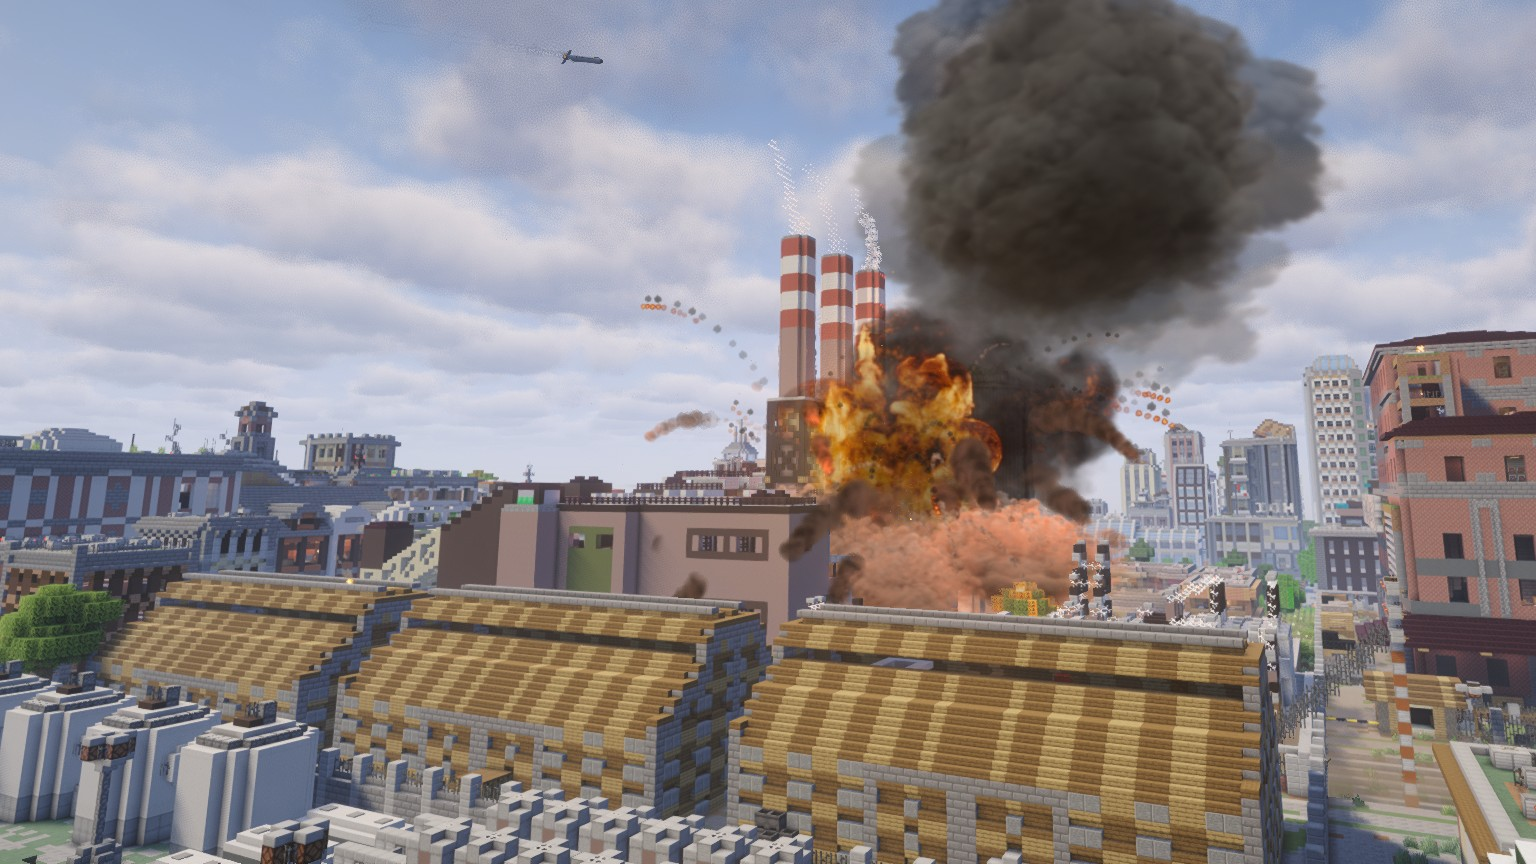
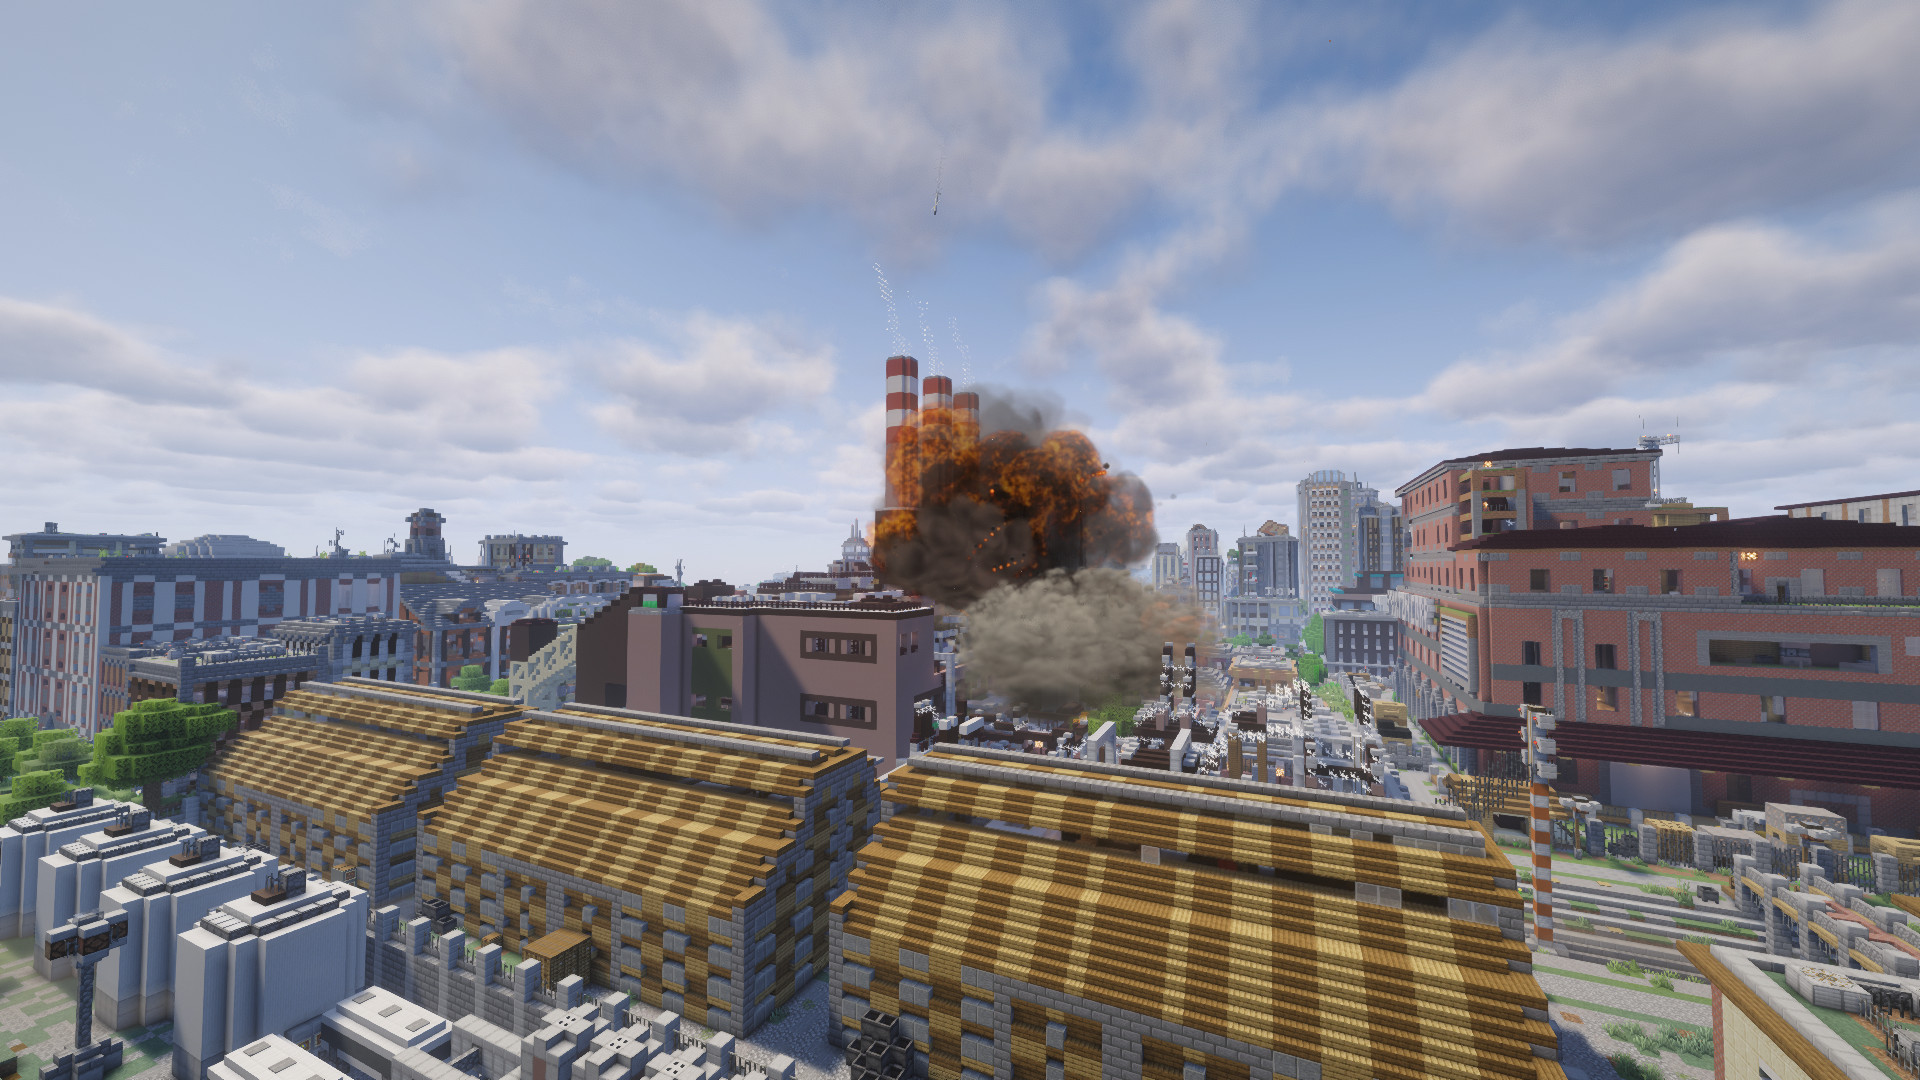
Reshoot airport, factory and night strike media on fresh Zearth
Use vanilla F2 stills and native Flashback video exports. Keep the LSS map seam diagnosis separate from the clean before-strike map; a full nuclear overview remains pending.

diff --git a/docs/store/listing.md b/docs/store/listing.md
@@ -69,8 +69,8 @@ upload list records the terrain/recipe/craft integrations above.
 
 The Modrinth icon is `docs/media/icon.png` (512×512); the CurseForge avatar is `docs/media/icon-400.png` (400×400 PNG).
 The first screen uses the factory-strike animation (`docs/media/hero.webp`), a tagline and a three-sentence introduction.
-The effect and nuclear sections lead, followed by weapons and controls. A factory impact, a nuclear blast wave and a ruined city illustrate the effects.
-The factory loop is 7 seconds and about 2.3 MiB; each refreshed animation is below 5 MB. Extra weapon screenshots are in the Gallery.
+The effect and nuclear sections lead, followed by weapons and controls. A factory impact and a 5 kt night airburst illustrate the effects.
+The factory loop is 8.5 seconds and about 3.3 MiB; each refreshed animation is below 5 MB. Extra weapon screenshots are in the Gallery.
 There is no verified finished video URL, so the description has no video section or video placeholder.
 
 The draft Modrinth gallery is in `modrinth.json`, in this order:
@@ -78,8 +78,8 @@ The draft Modrinth gallery is in `modrinth.json`, in this order:
 | File | Caption |
 |---|---|
 | `docs/media/still-5.jpg` | Cruise missiles strike a factory (featured) |
-| `docs/guide/img/nuke-wave.jpg` | Fireball and blast wave of a 15 kt airburst |
-| `docs/guide/img/nuke-ruins.jpg` | Ruined city in the dust after a 15 kt airburst |
+| `docs/guide/img/nuke-wave.jpg` | Blast-wave dust approaches after a 5 kt airburst at night |
+| `docs/guide/img/nuke-cloud.jpg` | The rising cloud after a 5 kt airburst at night |
 | `docs/guide/img/sam.webp` | SAM defending against a drone raid |
 | `docs/guide/img/weapon-shahed.jpg` | Shahed-136 on the way to its target |
 | `docs/media/still-2.jpg` | Cruise missiles strike a factory in Project Zearth |
@@ -87,12 +87,13 @@ The draft Modrinth gallery is in `modrinth.json`, in this order:
 | `docs/guide/img/weapon-grad.jpg` | Grad ready for a rocket salvo |
 | `docs/guide/img/weapon-b2.jpg` | B-2 in flight |
 | `docs/guide/img/weapon-icbm.jpg` | ICBM in flight |
-| `docs/guide/img/launcher.webp` | A cruise missile on a fixed launcher |
+| `docs/guide/img/launcher.webp` | Cruise missiles launch from an airport runway |
 | `docs/guide/img/remote.gif` | Choose a weapon and set up a salvo |
-| `docs/guide/img/map.png` | Targeting map along the coast |
+| `docs/guide/img/map.png` | Targeting map of the city before the strike |
 
 The factory, nuclear and instructional effect captures were recorded with Incoming 3.10.0 on a copy of Project
-Zearth. Motion clips use Flashback exports at 30 fps; the targeting map is a plain F2 screenshot.
+Zearth. Motion clips use Flashback exports at 30 fps; stills are plain F2 screenshots at 1920×1080 with Complementary Unbound.
+World shots hide the HUD; guide interface shots retain it. The map shows the city before the strike.
 Unchanged console, binocular, recipe and model images are retained. Verify animated WebP in the CurseForge editor before publication; if unsupported, the media thread should supply
 a GIF for the strike feature image. Preview gallery animations separately. Check both language sections, image
 loading, tables and links in the actual Markdown editor; a local Markdown check cannot certify its preview.

diff --git a/docs/dev/nuclear-effects-reference.md b/docs/dev/nuclear-effects-reference.md
@@ -4,7 +4,7 @@ Detailed presentation, timing and damage reference moved from the player guide.
 Distances assume full nuclear radii. Player instructions: [nuclear strike](../guide/nuke.md).
 
 
-![Blast-wave dust and flying debris over Project Zearth](../guide/img/nuke.jpg)
+![Flash of a 5 kt airburst over Project Zearth at night](../guide/img/nuke.jpg)
 
 Everyone within 20 km of the target hears a siren in advance. Then come the flash, the fireball and the mushroom cloud.
 The view is exposed the way a camera filming the burst would be. At the flash it turns white; within a quarter of a
@@ -96,7 +96,7 @@ minute or so and wanders across them. From about the sixth minute the fires die 
 are out, together with the smoke. A server with nuclear fires turned off (`nuclear.fires`) has no firestorm and no smoke
 haze over the town. Ash and scraps of burnt paper fall around you.
 
-![Fireball and blast wave over a town](../guide/img/nuke-wave.jpg)
+![Blast-wave dust approaches after a 5 kt airburst at night](../guide/img/nuke-wave.jpg)
 
 ### Damage and distant terrain reference
 
@@ -112,7 +112,7 @@ About 80 seconds after the burst, black rain starts to fall from the smoke of th
 town and in a wide strip downwind, for about six minutes in each place, in step with the firestorm. After an air burst
 it is only weakly radioactive. In the fallout trail of a ground burst it brings the fallout down onto you.
 
-![Ruined city beneath the dust pall after a 15 kt airburst](../guide/img/nuke-ruins.jpg)
+![The rising cloud after a 5 kt airburst at night](../guide/img/nuke-cloud.jpg)
 
 The land around the burst is scorched. The light does its part within the flash itself, about a second at 15 kt, before
 the blast wave comes: it burns grass, flowers and crops in patches, leaves black char where it was strongest, melts

diff --git a/docs/guide/ru/nuke.md b/docs/guide/ru/nuke.md
@@ -68,7 +68,7 @@
 
 ## Что будет
 
-![Пыль ударной волны и летящие обломки над Project Zearth](../img/nuke.jpg)
+![Вспышка воздушного взрыва 5 кт над Project Zearth ночью](../img/nuke.jpg)
 
 Сирена заранее предупреждает игроков возле цели. Сначала вспышка, затем огненный шар поднимается и становится грибом.
 Волна проходит по земле, ломает здания и поднимает пыль. Звук приходит к тебе вместе с волной.
@@ -77,7 +77,7 @@
 Наземный взрыв оставляет воронку и радиоактивный след по ветру. Над водой вместо стены пыли поднимаются брызги.
 После вспышки всё ещё опасны ожоги, радиация и падающие обломки: оставайся в укрытии и следи за дозой.
 
-![Разрушенный город под пылевой пеленой после воздушного взрыва 15 кт](../img/nuke-ruins.jpg)
+![Растущее облако после воздушного взрыва 5 кт ночью](../img/nuke-cloud.jpg)
 
 Distant Horizons и Voxy показывают разрушения, даже если ты не подходил к ним. Для МБР самая разрушенная область
 готовится ещё во время полёта; после других ядерных носителей дальний вид может обновиться позже. Выбитые окна и

diff --git a/docs/store/curseforge.ru.md b/docs/store/curseforge.ru.md
@@ -19,9 +19,9 @@ Incoming добавляет удары с воздуха со взрывами, 
 Вспышка, ударная волна, гриб, пожары и руины. Наземный взрыв оставляет воронку и радиоактивный след по ветру.
 Запускай МБР или ставь ядерную боеголовку на крылатую ракету либо бомбу B-2. По умолчанию доступны только операторам.
 
-![Огненный шар и ударная волна воздушного взрыва 15 кт над Project Zearth](https://raw.githubusercontent.com/zentixua/incoming/main/docs/guide/img/nuke-wave.jpg)
+![Воздушный взрыв 5 кт ночью над Project Zearth: вспышка, растущее облако и ударная волна](https://raw.githubusercontent.com/zentixua/incoming/main/docs/media/nuke.webp)
 
-![Руины города в пыли после воздушного взрыва 15 кт](https://raw.githubusercontent.com/zentixua/incoming/main/docs/guide/img/nuke-ruins.jpg)
+![Растущее облако после воздушного взрыва 5 кт ночью](https://raw.githubusercontent.com/zentixua/incoming/main/docs/guide/img/nuke-cloud.jpg)
 
 ### Оружие
 

diff --git a/docs/store/description.ru.md b/docs/store/description.ru.md
@@ -19,9 +19,9 @@ Incoming добавляет удары с воздуха со взрывами, 
 Вспышка, ударная волна, гриб, пожары и руины. Наземный взрыв оставляет воронку и радиоактивный след по ветру.
 Запускай МБР или ставь ядерную боеголовку на крылатую ракету либо бомбу B-2. По умолчанию доступны только операторам.
 
-![Огненный шар и ударная волна воздушного взрыва 15 кт над Project Zearth](https://raw.githubusercontent.com/zentixua/incoming/main/docs/guide/img/nuke-wave.jpg)
+![Воздушный взрыв 5 кт ночью над Project Zearth: вспышка, растущее облако и ударная волна](https://raw.githubusercontent.com/zentixua/incoming/main/docs/media/nuke.webp)
 
-![Руины города в пыли после воздушного взрыва 15 кт](https://raw.githubusercontent.com/zentixua/incoming/main/docs/guide/img/nuke-ruins.jpg)
+![Растущее облако после воздушного взрыва 5 кт ночью](https://raw.githubusercontent.com/zentixua/incoming/main/docs/guide/img/nuke-cloud.jpg)
 
 ### Оружие
 

diff --git a/docs/guide/nuke.md b/docs/guide/nuke.md
@@ -73,7 +73,7 @@ A Geiger Counter in hand clicks and shows your dose. Operators give it out.
 
 ## What happens
 
-![Blast-wave dust and flying debris over Project Zearth](img/nuke.jpg)
+![Flash of a 5 kt airburst over Project Zearth at night](img/nuke.jpg)
 
 The siren warns players near the target. The flash comes first; the fireball rises into a mushroom cloud.
 Then the wave reaches the ground around it, breaking buildings and throwing up dust. The sound reaches you with the wave.
@@ -82,7 +82,7 @@ Fires and thick dust can make the area hard to see through long after the strike
 A ground burst leaves a crater and radioactive fallout downwind. Over water, spray takes the place of the dust wall.
 Burns, radiation and falling debris can still hurt you after the flash, so stay under cover and watch your dose.
 
-![Ruined city beneath the dust pall after a 15 kt airburst](img/nuke-ruins.jpg)
+![The rising cloud after a 5 kt airburst at night](img/nuke-cloud.jpg)
 
 Distant Horizons and Voxy can show ruins without you visiting them. ICBM strikes prepare the hardest-hit area during
 flight; other nuclear carriers can take longer to update the distant view. Broken windows and fallen trees farther

diff --git a/docs/guide/ru/camera.md b/docs/guide/ru/camera.md
@@ -9,7 +9,7 @@
 Подписи камеры и радара зависят от языка игры: «ЗАП» — индикатор камеры, «С» — север, «Т-» — время до попадания.
 Индикатор камеры не сохраняет видео в файл.
 
-![Крылатая ракета подлетает к заводу на побережье и пикирует](../img/camera.webp)
+![Крылатая ракета в полёте над Project Zearth](../img/camera.webp)
 
 - Если снаряд дальше твоей прорисовки, вместо видео карта с его путём. Подлетит ближе — видео включится само.
 - **ЛКМ** — новая цель: то, что в перекрестии.
@@ -25,4 +25,4 @@
 
 ![Камера «Ланцета» на круге: данные полёта и время до попадания](../img/loiter-ui.png)
 
-![«Ланцет» делает круг над заводом и пикирует](../img/loiter.webp)
+![«Ланцет» делает круг над заводом](../img/loiter.webp)

diff --git a/README.ru.md b/README.ru.md
@@ -21,9 +21,9 @@ Incoming добавляет удары с воздуха со взрывами, 
 Вспышка, ударная волна, гриб, пожары и руины. Наземный взрыв оставляет воронку и радиоактивный след по ветру.
 Запускай МБР или ставь ядерную боеголовку на крылатую ракету либо бомбу B-2. По умолчанию доступны только операторам.
 
-![Огненный шар и ударная волна воздушного взрыва 15 кт над Project Zearth](docs/guide/img/nuke-wave.jpg)
+![Воздушный взрыв 5 кт ночью над Project Zearth: вспышка, растущее облако и ударная волна](docs/media/nuke.webp)
 
-![Руины города в пыли после воздушного взрыва 15 кт](docs/guide/img/nuke-ruins.jpg)
+![Растущее облако после воздушного взрыва 5 кт ночью](docs/guide/img/nuke-cloud.jpg)
 
 ### Оружие
 

diff --git a/docs/guide/ru/defense.md b/docs/guide/ru/defense.md
@@ -53,7 +53,7 @@
 Сам блок — кабина радара. Над ней стоят четыре контейнера с ракетами, так что весь ЗРК высотой около пяти с половиной
 блоков. Ракета выходит из контейнера вертикально вверх и короткой дугой разворачивается на цель.
 
-![ЗРК сбивает шахеды на подлёте; в углу экран радара](../img/sam.webp)
+![ЗРК запускает зенитные ракеты с городской площади](../img/sam.webp)
 
 - Радар видит до 3 км, огонь — с 1,5 км, по одной ракете на цель. Это игровые дальности, намного меньше настоящих,
   чтобы бой шёл на виду (не по физике). Малозаметные цели он видит ближе: крылатую ракету — с 2,1 км, «Ланцет» —

diff --git a/docs/store/curseforge.md b/docs/store/curseforge.md
@@ -19,9 +19,9 @@ It includes six weapons, air defense and sirens, with a designator for choosing 
 Flash, blast wave, mushroom cloud, fires and ruins. Ground bursts leave a crater and fallout downwind.
 Launch an ICBM or fit a nuclear warhead to a cruise missile or B-2 bomb. Operator-only by default.
 
-![Fireball and blast wave of a 15 kt airburst over Project Zearth](https://raw.githubusercontent.com/zentixua/incoming/main/docs/guide/img/nuke-wave.jpg)
+![A 5 kt airburst at night over Project Zearth: flash, rising cloud and blast wave](https://raw.githubusercontent.com/zentixua/incoming/main/docs/media/nuke.webp)
 
-![Ruined city in the dust after a 15 kt airburst](https://raw.githubusercontent.com/zentixua/incoming/main/docs/guide/img/nuke-ruins.jpg)
+![The rising cloud after a 5 kt airburst at night](https://raw.githubusercontent.com/zentixua/incoming/main/docs/guide/img/nuke-cloud.jpg)
 
 ### Weapons
 

diff --git a/docs/store/description.md b/docs/store/description.md
@@ -19,9 +19,9 @@ It includes six weapons, air defense and sirens, with a designator for choosing 
 Flash, blast wave, mushroom cloud, fires and ruins. Ground bursts leave a crater and fallout downwind.
 Launch an ICBM or fit a nuclear warhead to a cruise missile or B-2 bomb. Operator-only by default.
 
-![Fireball and blast wave of a 15 kt airburst over Project Zearth](https://raw.githubusercontent.com/zentixua/incoming/main/docs/guide/img/nuke-wave.jpg)
+![A 5 kt airburst at night over Project Zearth: flash, rising cloud and blast wave](https://raw.githubusercontent.com/zentixua/incoming/main/docs/media/nuke.webp)
 
-![Ruined city in the dust after a 15 kt airburst](https://raw.githubusercontent.com/zentixua/incoming/main/docs/guide/img/nuke-ruins.jpg)
+![The rising cloud after a 5 kt airburst at night](https://raw.githubusercontent.com/zentixua/incoming/main/docs/guide/img/nuke-cloud.jpg)
 
 ### Weapons
 

diff --git a/docs/guide/camera.md b/docs/guide/camera.md
@@ -10,7 +10,7 @@ character.
 The camera and radar captions follow your game language: `REC` marks the camera display, `N` marks north, and
 `T-` is the countdown to impact. The camera indicator does not save a video file.
 
-![A cruise missile approaches the coastal factory and dives](img/camera.webp)
+![A cruise missile in flight over Project Zearth](img/camera.webp)
 
 - When the projectile is beyond your render distance, you see a map with its path instead of video. The video starts
   by itself once it comes closer.
@@ -28,4 +28,4 @@ once. If you pick nothing, it dives by itself after about 25 seconds.
 
 ![Lancet camera while circling, with flight data and time to impact](img/loiter-ui.png)
 
-![A Lancet circles over the factory and dives](img/loiter.webp)
+![A Lancet circles over the factory](img/loiter.webp)
